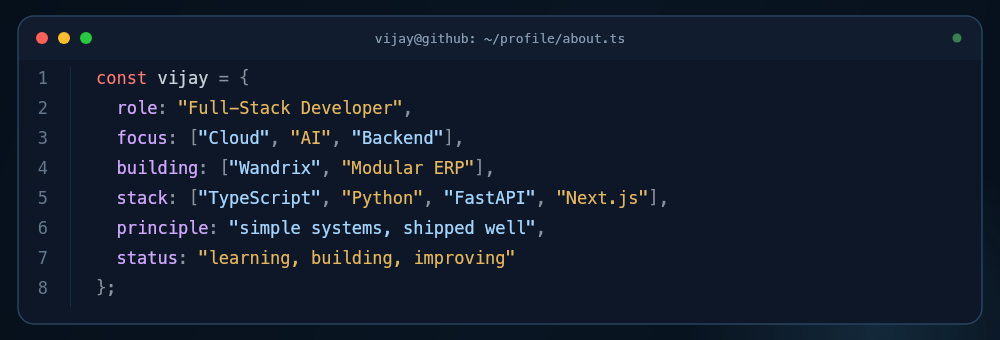
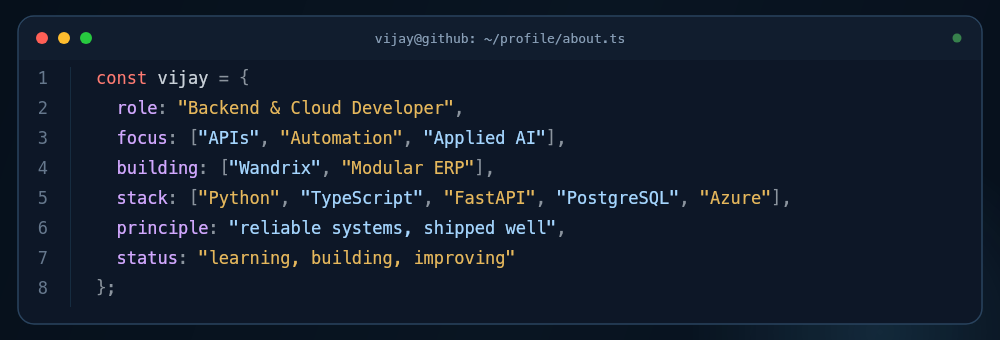
Polish profile positioning badges and delivery animation

diff --git a/README.md b/README.md
@@ -6,20 +6,26 @@
 <h1 align="center">Vijay Sreekar</h1>
 
 <p align="center">
-  <strong>Computer Science student building dependable full-stack products and cloud-ready systems.</strong>
+  <strong>Backend &amp; cloud-focused developer building reliable APIs, automation, and AI-enabled systems.</strong>
 </p>
 
 <p align="center">
-  Full-stack engineering · Cloud systems · Production automation · AI applications
+  Python · TypeScript · FastAPI · PostgreSQL · Azure
+</p>
+
+<p align="center">
+  <img alt="Focus: Backend and Cloud" src="https://img.shields.io/badge/FOCUS-Backend_%26_Cloud-61cbff?style=flat-square&labelColor=0d1727">
+  <img alt="Building: Wandrix and Modular ERP" src="https://img.shields.io/badge/BUILDING-Wandrix_%2B_Modular_ERP-e6b85c?style=flat-square&labelColor=0d1727">
+  <img alt="Exploring: Applied AI" src="https://img.shields.io/badge/EXPLORING-Applied_AI-56d364?style=flat-square&labelColor=0d1727">
 </p>
 
 ---
 
 ### A little about me
 
-Hi, I'm Vijay — a Computer Science student and full-stack developer who enjoys building the whole product: interface, API, data model, deployment, and the small automations that keep everything running.
+Hi, I'm Vijay — a Computer Science student focused on **backend and cloud engineering** for modern products. I spend most of my time designing APIs, data models, operational automation, and delivery paths that remain dependable after launch.
 
-I'm especially interested in **cloud systems, practical AI, and backend architecture**. I prefer software that is understandable and dependable over complexity for its own sake, and I like improving products through short build–observe–refine cycles.
+TypeScript and React are part of my product toolkit, but my centre of gravity is **Python/FastAPI, data, cloud delivery, and applied AI integrations**. I prefer explicit architecture, useful observability, and small systems that are easy to operate and improve.
 
 Right now, I'm building **Wandrix**, an AI-assisted travel platform, alongside a modular **ERP system** that spans real business workflows.
 
@@ -47,33 +53,52 @@ Right now, I'm building **Wandrix**, an AI-assisted travel platform, alongside a
 
 | Project | What it demonstrates | Stack |
 | :--- | :--- | :--- |
-| [**Wandrix Live**](https://github.com/VijaySreekar/Wandrix-Live) | A deployment-ready application shaped around practical delivery | Python · Cloud |
-| [**Spotify Insights**](https://github.com/VijaySreekar/StreamLitSpotifyInsights) | Interactive exploration of listening data and music patterns | Python · Streamlit |
-| [**Alarm App**](https://github.com/VijaySreekar/AlarmApp) | A focused browser utility with a straightforward user experience | JavaScript |
+| [**Wandrix Live**](https://github.com/VijaySreekar/Wandrix-Live) | AI-assisted travel planning with API orchestration, persistence, caching, and monitoring | Next.js · FastAPI · Supabase |
+| [**Spotify Insights**](https://github.com/VijaySreekar/StreamLitSpotifyInsights) | Interactive analysis of listening data and music patterns | Python · Streamlit |
+| [**Alarm App**](https://github.com/VijaySreekar/AlarmApp) | A focused browser utility with time-based interactions | JavaScript |
 
-### Toolbox
+### Engineering stack
 
+<sub><strong>CORE SYSTEMS</strong></sub>
 <p>
-  <img alt="TypeScript" src="https://img.shields.io/badge/TypeScript-0d1727?style=flat-square&logo=typescript&logoColor=61cbff">
   <img alt="Python" src="https://img.shields.io/badge/Python-0d1727?style=flat-square&logo=python&logoColor=e6b85c">
-  <img alt="Java" src="https://img.shields.io/badge/Java-0d1727?style=flat-square&logo=openjdk&logoColor=61cbff">
-  <img alt="C Sharp" src="https://img.shields.io/badge/C%23-0d1727?style=flat-square&logo=dotnet&logoColor=61cbff">
-  <img alt="Next.js" src="https://img.shields.io/badge/Next.js-0d1727?style=flat-square&logo=nextdotjs&logoColor=ffffff">
+  <img alt="TypeScript" src="https://img.shields.io/badge/TypeScript-0d1727?style=flat-square&logo=typescript&logoColor=61cbff">
   <img alt="FastAPI" src="https://img.shields.io/badge/FastAPI-0d1727?style=flat-square&logo=fastapi&logoColor=61cbff">
+  <img alt="C Sharp" src="https://img.shields.io/badge/C%23-0d1727?style=flat-square&logo=dotnet&logoColor=61cbff">
   <img alt="PostgreSQL" src="https://img.shields.io/badge/PostgreSQL-0d1727?style=flat-square&logo=postgresql&logoColor=61cbff">
-  <img alt="Azure" src="https://img.shields.io/badge/Azure-0d1727?style=flat-square&logo=microsoftazure&logoColor=61cbff">
-  <img alt="Docker" src="https://img.shields.io/badge/Docker-0d1727?style=flat-square&logo=docker&logoColor=61cbff">
-  <img alt="GitHub Actions" src="https://img.shields.io/badge/GitHub_Actions-0d1727?style=flat-square&logo=githubactions&logoColor=e6b85c">
-  <img alt="Supabase" src="https://img.shields.io/badge/Supabase-0d1727?style=flat-square&logo=supabase&logoColor=e6b85c">
+  <img alt="SQLAlchemy" src="https://img.shields.io/badge/SQLAlchemy-0d1727?style=flat-square&logo=sqlalchemy&logoColor=e6b85c">
 </p>
 
-### How I work
+<sub><strong>CLOUD &amp; DELIVERY</strong></sub>
+<p>
+  <img alt="Azure" src="https://img.shields.io/badge/Azure-0d1727?style=flat-square&logo=microsoftazure&logoColor=61cbff">
+  <img alt="Azure DevOps" src="https://img.shields.io/badge/Azure_DevOps-0d1727?style=flat-square&logo=azuredevops&logoColor=61cbff">
+  <img alt="Docker" src="https://img.shields.io/badge/Docker-0d1727?style=flat-square&logo=docker&logoColor=61cbff">
+  <img alt="GitHub Actions" src="https://img.shields.io/badge/GitHub_Actions-0d1727?style=flat-square&logo=githubactions&logoColor=e6b85c">
+  <img alt="SonarCloud" src="https://img.shields.io/badge/SonarCloud-0d1727?style=flat-square&logo=sonarcloud&logoColor=e6b85c">
+  <img alt="Sentry" src="https://img.shields.io/badge/Sentry-0d1727?style=flat-square&logo=sentry&logoColor=61cbff">
+</p>
 
-```text
-understand the problem → ship a useful slice → observe → improve
-```
+<sub><strong>PRODUCT &amp; AI</strong></sub>
+<p>
+  <img alt="Next.js" src="https://img.shields.io/badge/Next.js-0d1727?style=flat-square&logo=nextdotjs&logoColor=ffffff">
+  <img alt="React" src="https://img.shields.io/badge/React-0d1727?style=flat-square&logo=react&logoColor=61cbff">
+  <img alt="Tailwind CSS" src="https://img.shields.io/badge/Tailwind_CSS-0d1727?style=flat-square&logo=tailwindcss&logoColor=61cbff">
+  <img alt="Supabase" src="https://img.shields.io/badge/Supabase-0d1727?style=flat-square&logo=supabase&logoColor=e6b85c">
+  <img alt="LangChain" src="https://img.shields.io/badge/LangChain-0d1727?style=flat-square&logo=langchain&logoColor=61cbff">
+  <img alt="Hugging Face" src="https://img.shields.io/badge/Hugging_Face-0d1727?style=flat-square&logo=huggingface&logoColor=e6b85c">
+</p>
 
-I value readable code, honest documentation, automated checks, and infrastructure that stays proportional to the product.
+### Code to cloud
+
+I care about the full delivery path around a backend service: explicit contracts, automated checks, reproducible containers, controlled deployment, and useful signals after release.
+
+<p align="center">
+  <picture>
+    <source media="(prefers-reduced-motion: reduce)" srcset="./assets/code-to-cloud-static.png">
+    <img width="100%" alt="Animated code-to-cloud pipeline moving through code, API design, tests, container build, cloud deployment, and observability" src="./assets/code-to-cloud.gif">
+  </picture>
+</p>
 
 ---
 
